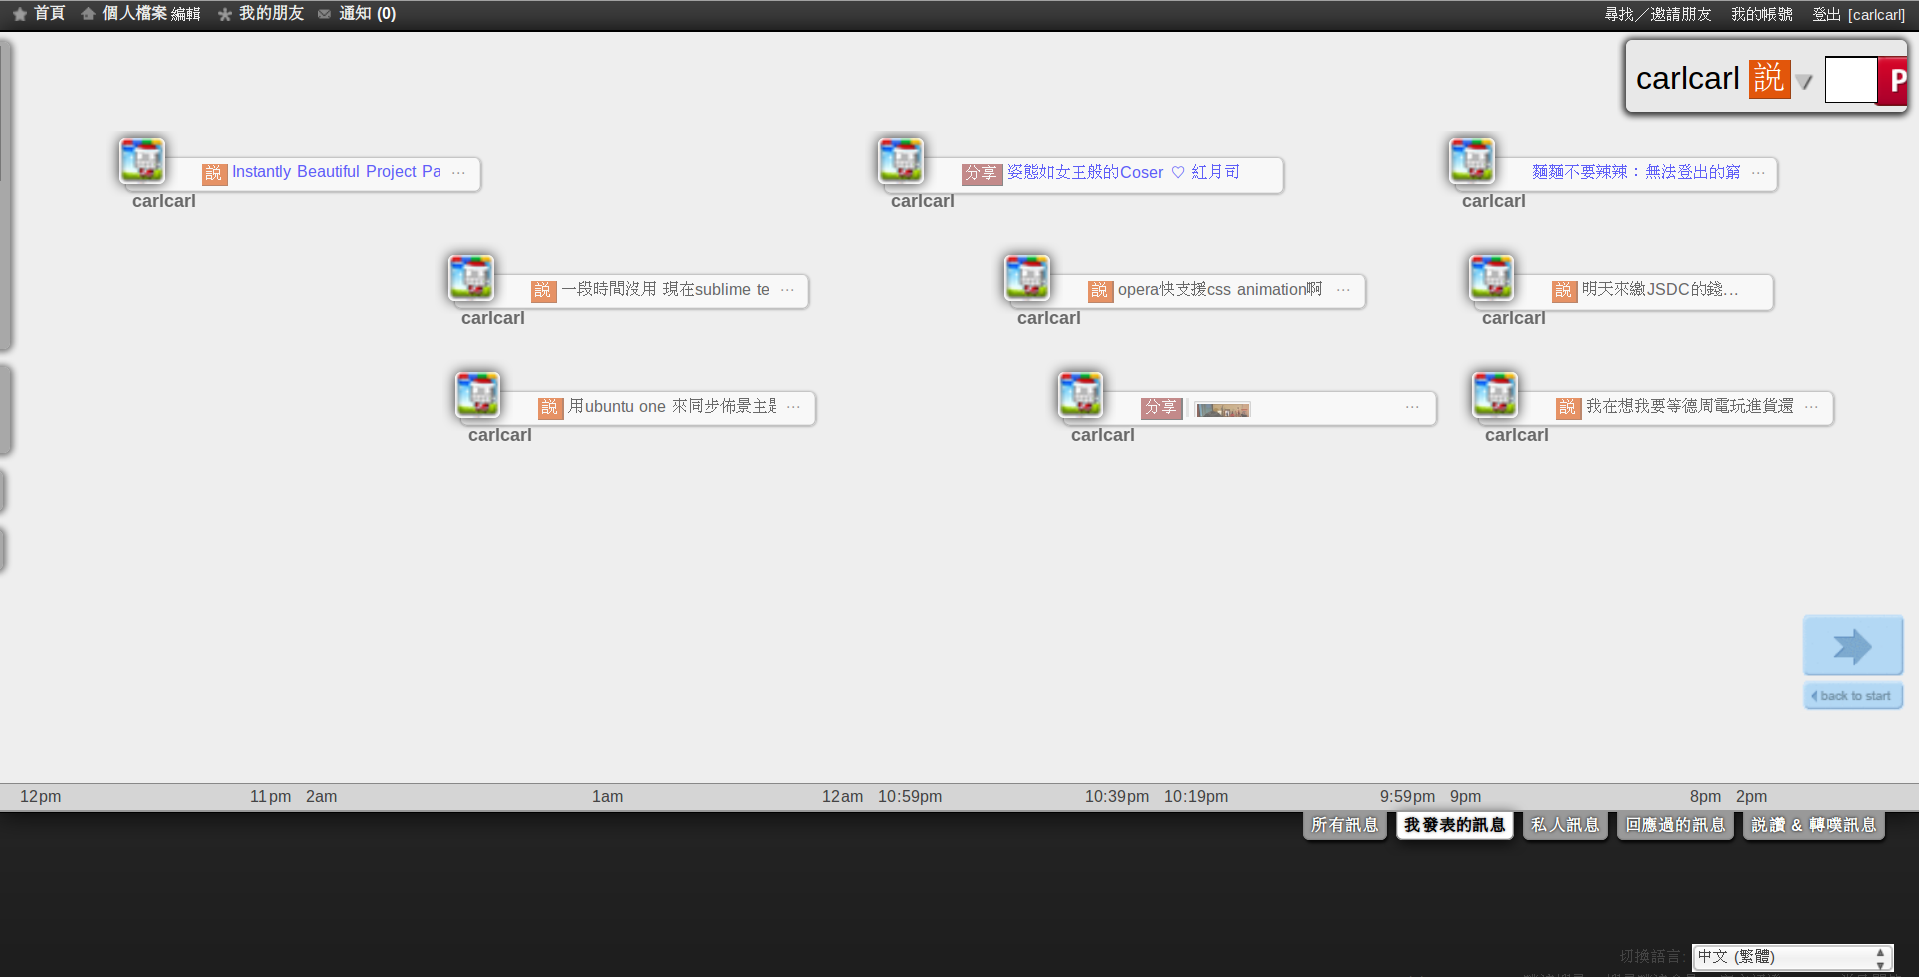
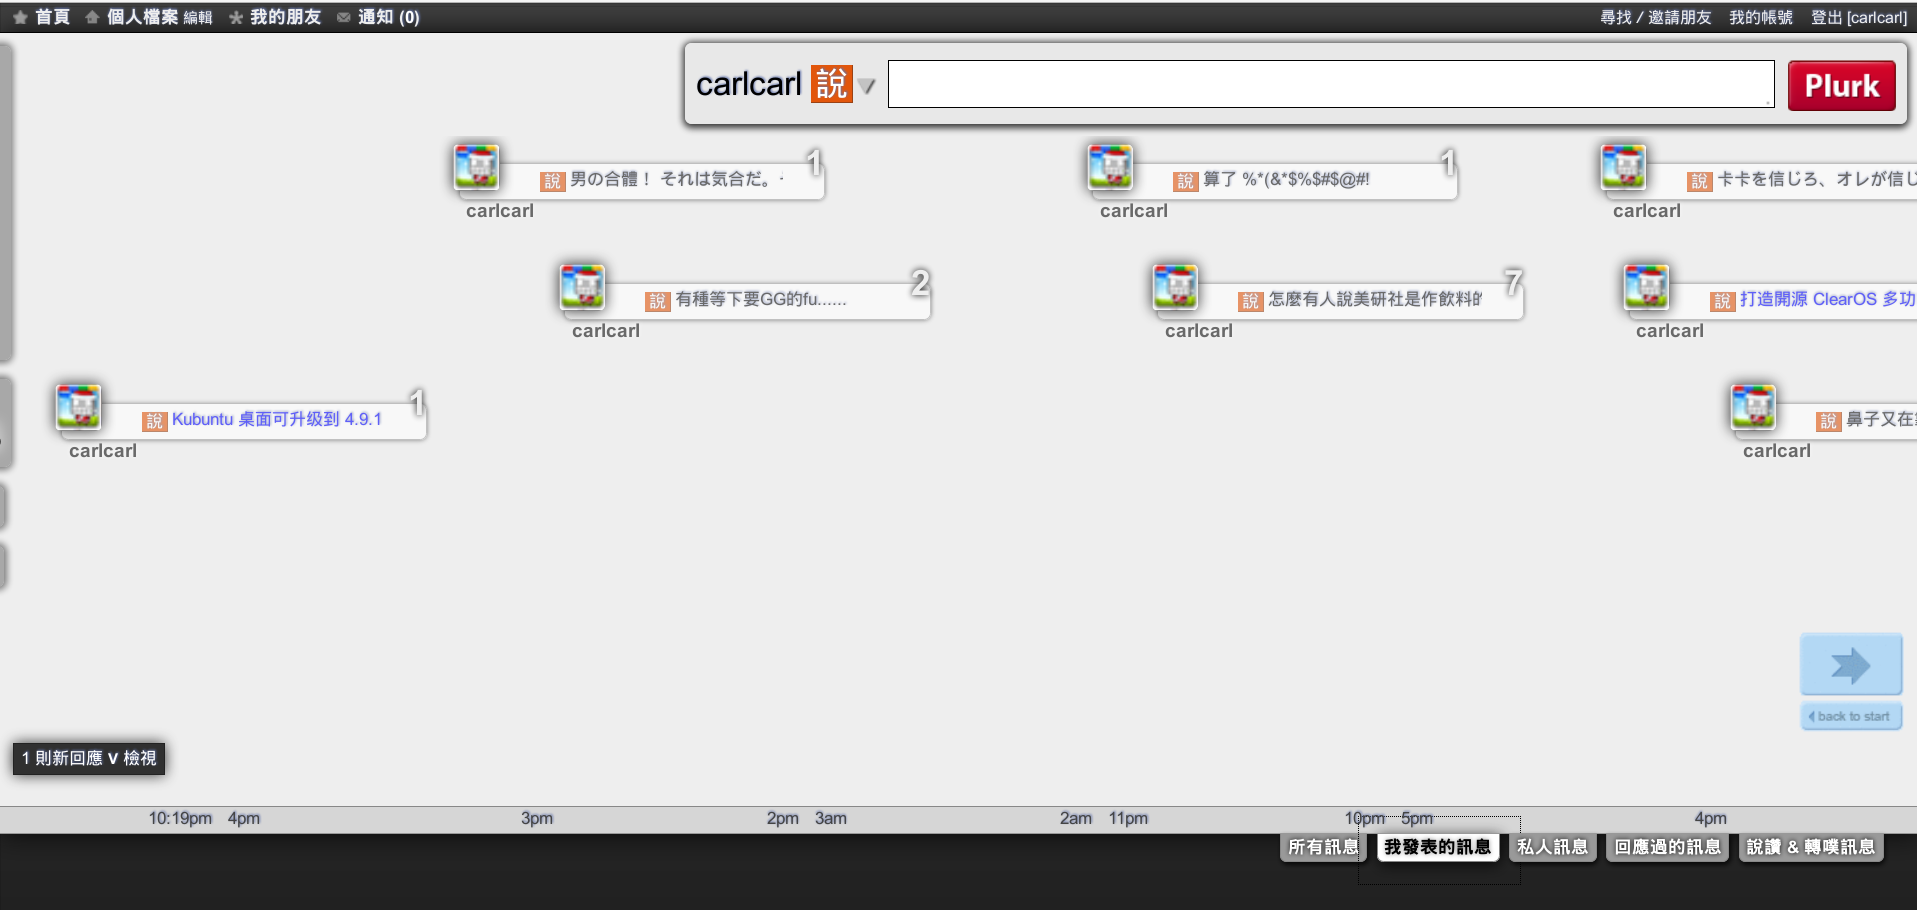
Update screenshot and README

diff --git a/README.md b/README.md
@@ -6,11 +6,9 @@ This is a fork of http://howar31.blogspot.com/2011/09/plurk.html
 
 1. Hide all dashborad information.
 2. Improve Opera support
+3. Show input message box by default
 
 ## Note ##
-If you want FADEIN animation in Opera, please use Opera 12.   
-Other browser include Chrome and Firefox already support this.
-
 Not support IE !!
 
 ## Screenshot ##
